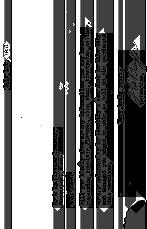
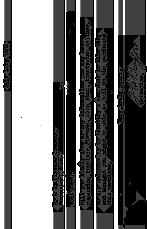
Fix vertical domain problems
Added conditions to ensure that all of the interesting information is
marked when calculating vertical seams

diff --git a/src/libSeamCarve.c b/src/libSeamCarve.c
@@ -661,8 +661,8 @@ static int findSeams(int *imageSeams, int imageWidth, int imageHeight, int *imag
 					infoAreaXYmin = deviationEndedAt;
 					infoAreaXYmax = deviationBeganAt;
 					printSeam(thisPath, imageOrig, imageWidth, imageHeight, direction, 128);
-					printf("%d\t%d\t%d\t%d\t%d\t BEGIN \n", lastSeamDeviation, lastSeamDeviationABS, seamDeviation, seamDeviationABS, textLineDepth);
-					// printf("BEGIN infoAreaXYmin: %d (%d), infoAreaXYmax: %d (%d)\n", ((infoAreaXYmin % imageSize) + 1), infoAreaXYmin, ((infoAreaXYmax % imageSize) + 1), infoAreaXYmax);
+					// printf("%d\t%d\t%d\t%d\t%d\t BEGIN \n", lastSeamDeviation, lastSeamDeviationABS, seamDeviation, seamDeviationABS, textLineDepth);
+					printf("BEGIN infoAreaXYmin: %d (%d), infoAreaXYmax: %d (%d)\n", ((infoAreaXYmin % imageSize) + 1), infoAreaXYmin, ((infoAreaXYmax % imageSize) + 1), infoAreaXYmax);
 
 					//interestingArea->pathBegin = thisPath;
 					// cannot do this ^^^^ it's a reference, not values
@@ -680,16 +680,25 @@ static int findSeams(int *imageSeams, int imageWidth, int imageHeight, int *imag
 				// TODO: Consider making this the end of a text line
 				// 
 				} else {
-					if ((infoAreaXYmin == 0) || ((deviationEndedAt % imageSize) < (infoAreaXYmin % imageSize))) {
-						infoAreaXYmin = deviationEndedAt;
-					}
-					if ((infoAreaXYmax == 0) || ((deviationBeganAt % imageSize) > (infoAreaXYmax % imageSize))) {
-						infoAreaXYmax = deviationBeganAt;
+					if (direction == directionVertical) {
+						if ((infoAreaXYmin == 0) || ((deviationEndedAt / imageSize) < (infoAreaXYmin / imageSize))) {
+							infoAreaXYmin = deviationEndedAt;
+						}
+						if ((infoAreaXYmax == 0) || ((deviationBeganAt / imageSize) > (infoAreaXYmax / imageSize))) {
+							infoAreaXYmax = deviationBeganAt;
+						}
+					} else {
+						if ((infoAreaXYmin == 0) || ((deviationEndedAt % imageSize) < (infoAreaXYmin % imageSize))) {
+							infoAreaXYmin = deviationEndedAt;
+						}
+						if ((infoAreaXYmax == 0) || ((deviationBeganAt % imageSize) > (infoAreaXYmax % imageSize))) {
+							infoAreaXYmax = deviationBeganAt;
+						}
 					}
 
 					printSeam(thisPath, imageOrig, imageWidth, imageHeight, direction, 68);
-					printf("%d\t%d\t%d\t%d\t%d\t SKP \n", lastSeamDeviation, lastSeamDeviationABS, seamDeviation, seamDeviationABS, textLineDepth);
-					// printf("  SKP infoAreaXYmin: %d (%d), infoAreaXYmax: %d (%d)\n", ((infoAreaXYmin % imageSize) + 1), infoAreaXYmin, ((infoAreaXYmax % imageSize) + 1), infoAreaXYmax);
+					// printf("%d\t%d\t%d\t%d\t%d\t SKP \n", lastSeamDeviation, lastSeamDeviationABS, seamDeviation, seamDeviationABS, textLineDepth);
+					printf("  SKP infoAreaXYmin: %d (%d), infoAreaXYmax: %d (%d)\n", ((infoAreaXYmin % imageSize) + 1), infoAreaXYmin, ((infoAreaXYmax % imageSize) + 1), infoAreaXYmax);
 				}
 
 			// 
@@ -727,8 +736,8 @@ static int findSeams(int *imageSeams, int imageWidth, int imageHeight, int *imag
 							// }
 
 							printSeam(thisPath, imageOrig, imageWidth, imageHeight, direction, 0);
-							printf("%d\t%d\t%d\t%d\t%d\t END \n", lastSeamDeviation, lastSeamDeviationABS, seamDeviation, seamDeviationABS, textLineDepth);
-							// printf("  END infoAreaXYmin: %d (%d), infoAreaXYmax: %d (%d)\n", ((infoAreaXYmin % imageSize) + 1), infoAreaXYmin, ((infoAreaXYmax % imageSize) + 1), infoAreaXYmax);
+							// printf("%d\t%d\t%d\t%d\t%d\t END \n", lastSeamDeviation, lastSeamDeviationABS, seamDeviation, seamDeviationABS, textLineDepth);
+							printf("  END infoAreaXYmin: %d (%d), infoAreaXYmax: %d (%d)\n", ((infoAreaXYmin % imageSize) + 1), infoAreaXYmin, ((infoAreaXYmax % imageSize) + 1), infoAreaXYmax);
 
 							interestingArea->pathEnd = thisPath;
 							interestingArea->domainMin = infoAreaXYmin;
@@ -768,23 +777,32 @@ static int findSeams(int *imageSeams, int imageWidth, int imageHeight, int *imag
 								textLineDepth = 0;
 
 								printSeam(thisPath, imageOrig, imageWidth, imageHeight, direction, 0);
-								printf("%d\t%d\t%d\t%d\t%d\t HALT \n", lastSeamDeviation, lastSeamDeviationABS, seamDeviation, seamDeviationABS, textLineDepth);
-								// printf(" HALT infoAreaXYmin: %d (%d), infoAreaXYmax: %d (%d)\n", ((infoAreaXYmin % imageSize) + 1), infoAreaXYmin, ((infoAreaXYmax % imageSize) + 1), infoAreaXYmax);
+								// printf("%d\t%d\t%d\t%d\t%d\t HALT \n", lastSeamDeviation, lastSeamDeviationABS, seamDeviation, seamDeviationABS, textLineDepth);
+								printf(" HALT infoAreaXYmin: %d (%d), infoAreaXYmax: %d (%d)\n", ((infoAreaXYmin % imageSize) + 1), infoAreaXYmin, ((infoAreaXYmax % imageSize) + 1), infoAreaXYmax);
 
 							// 
 							// Assume we are at the begining of a jagged text line, keep going
 							// 
 							} else {
-								if ((infoAreaXYmin == 0) || ((deviationEndedAt % imageSize) < (infoAreaXYmin % imageSize))) {
-									infoAreaXYmin = deviationEndedAt;
-								}
-								if ((infoAreaXYmax == 0) || ((deviationBeganAt % imageSize) > (infoAreaXYmax % imageSize))) {
-									infoAreaXYmax = deviationBeganAt;
+								if (direction == directionVertical) {
+									if ((infoAreaXYmin == 0) || ((deviationEndedAt / imageSize) < (infoAreaXYmin / imageSize))) {
+										infoAreaXYmin = deviationEndedAt;
+									}
+									if ((infoAreaXYmax == 0) || ((deviationBeganAt / imageSize) > (infoAreaXYmax / imageSize))) {
+										infoAreaXYmax = deviationBeganAt;
+									}
+								} else {
+									if ((infoAreaXYmin == 0) || ((deviationEndedAt % imageSize) < (infoAreaXYmin % imageSize))) {
+										infoAreaXYmin = deviationEndedAt;
+									}
+									if ((infoAreaXYmax == 0) || ((deviationBeganAt % imageSize) > (infoAreaXYmax % imageSize))) {
+										infoAreaXYmax = deviationBeganAt;
+									}
 								}
 
 								printSeam(thisPath, imageOrig, imageWidth, imageHeight, direction, 72);
-								printf("%d\t%d\t%d\t%d\t%d\t GAP \n", lastSeamDeviation, lastSeamDeviationABS, seamDeviation, seamDeviationABS, textLineDepth);
-								// printf("  GAP infoAreaXYmin: %d (%d), infoAreaXYmax: %d (%d)\n", ((infoAreaXYmin % imageSize) + 1), infoAreaXYmin, ((infoAreaXYmax % imageSize) + 1), infoAreaXYmax);
+								// printf("%d\t%d\t%d\t%d\t%d\t GAP \n", lastSeamDeviation, lastSeamDeviationABS, seamDeviation, seamDeviationABS, textLineDepth);
+								printf("  GAP infoAreaXYmin: %d (%d), infoAreaXYmax: %d (%d)\n", ((infoAreaXYmin % imageSize) + 1), infoAreaXYmin, ((infoAreaXYmax % imageSize) + 1), infoAreaXYmax);
 							}
 						}
 
@@ -794,16 +812,25 @@ static int findSeams(int *imageSeams, int imageWidth, int imageHeight, int *imag
 					} else {
 						textLineDepth += 1;
 						
-						if ((infoAreaXYmin == 0) || ((deviationEndedAt % imageSize) < (infoAreaXYmin % imageSize))) {
-							infoAreaXYmin = deviationEndedAt;
-						}
-						if ((infoAreaXYmax == 0) || ((deviationBeganAt % imageSize) > (infoAreaXYmax % imageSize))) {
-							infoAreaXYmax = deviationBeganAt;
+						if (direction == directionVertical) {
+							if ((infoAreaXYmin == 0) || ((deviationEndedAt / imageSize) < (infoAreaXYmin / imageSize))) {
+								infoAreaXYmin = deviationEndedAt;
+							}
+							if ((infoAreaXYmax == 0) || ((deviationBeganAt / imageSize) > (infoAreaXYmax / imageSize))) {
+								infoAreaXYmax = deviationBeganAt;
+							}
+						} else {
+							if ((infoAreaXYmin == 0) || ((deviationEndedAt % imageSize) < (infoAreaXYmin % imageSize))) {
+								infoAreaXYmin = deviationEndedAt;
+							}
+							if ((infoAreaXYmax == 0) || ((deviationBeganAt % imageSize) > (infoAreaXYmax % imageSize))) {
+								infoAreaXYmax = deviationBeganAt;
+							}
 						}
 
 						printSeam(thisPath, imageOrig, imageWidth, imageHeight, direction, 64);
-						printf("%d\t%d\t%d\t%d\t%d\t RUN \n", lastSeamDeviation, lastSeamDeviationABS, seamDeviation, seamDeviationABS, textLineDepth);
-						// printf("  RUN infoAreaXYmin: %d (%d), infoAreaXYmax: %d (%d)\n", ((infoAreaXYmin % imageSize) + 1), infoAreaXYmin, ((infoAreaXYmax % imageSize) + 1), infoAreaXYmax);
+						// printf("%d\t%d\t%d\t%d\t%d\t RUN \n", lastSeamDeviation, lastSeamDeviationABS, seamDeviation, seamDeviationABS, textLineDepth);
+						printf("  RUN infoAreaXYmin: %d (%d), infoAreaXYmax: %d (%d)\n", ((infoAreaXYmin % imageSize) + 1), infoAreaXYmin, ((infoAreaXYmax % imageSize) + 1), infoAreaXYmax);
 					}
 				
 				// 
